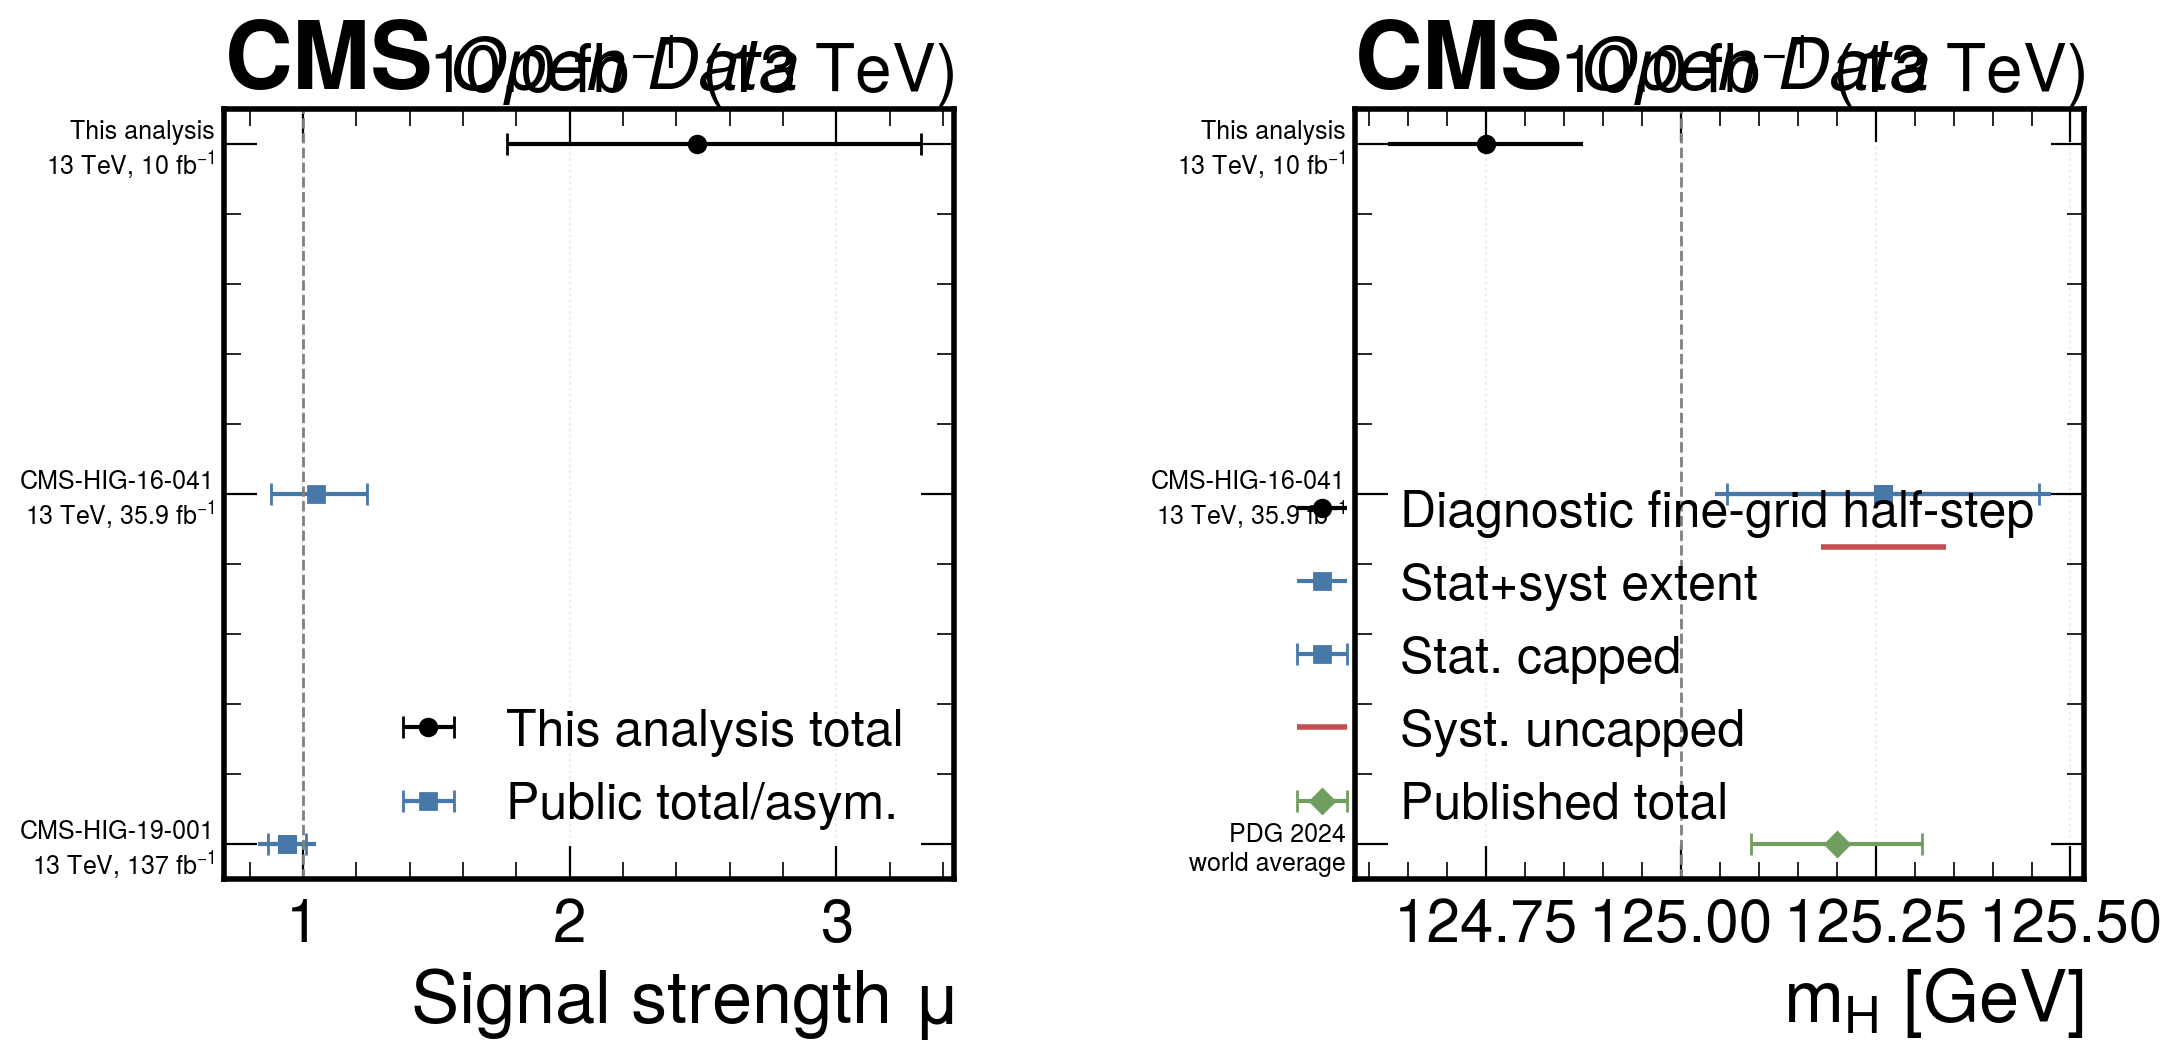
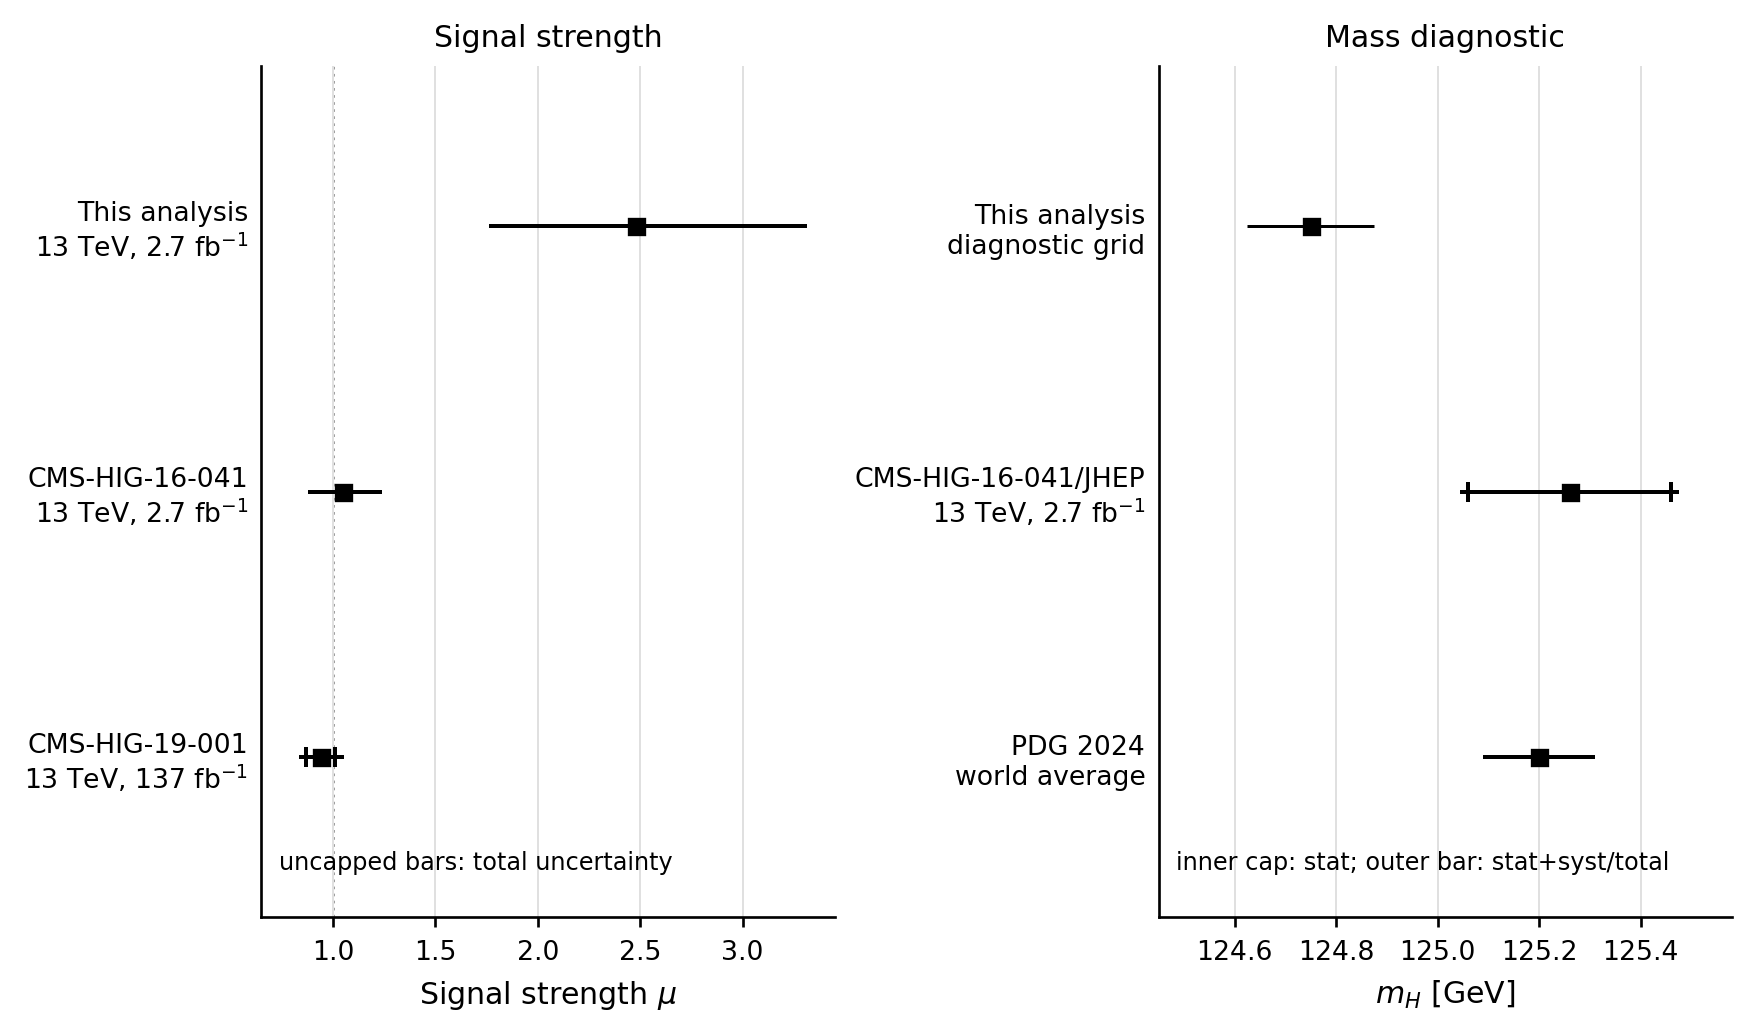
fix(doc4c): polish reference comparison figure

diff --git a/analysis_note/review/doc4c/VERIFY_sven_6dea_2026-05-30.md b/analysis_note/review/doc4c/VERIFY_sven_6dea_2026-05-30.md
@@ -1,0 +1,32 @@
+# VERIFY_sven_6dea_2026-05-30
+
+Session: `sven_6dea`
+
+Scope: fast plot-only Doc 4c fix for `analysis_note/figures/doc4c_reference_comparison.{pdf,png}`. No Phase 4 inference was rerun and no physics numbers were changed.
+
+## Figure Regeneration
+
+- Regenerated `analysis_note/figures/doc4c_reference_comparison.pdf` and `.png` with a one-off `pixi run py - <<'PY'` command.
+- Signal-strength panel uses black square markers for all entries.
+- Entries without stat/syst split use one uncapped total horizontal bar.
+- CMS-HIG-19-001 signal strength uses an inner capped stat bar and an outer uncapped quadrature total bar.
+- Mass panel uses black square markers for all entries.
+- This-analysis mass entry uses `best_mass_GeV = 124.75` and `diagnostic_grid_half_step_GeV = 0.125` from `analysis_note/results/observed_mass_scan.json`.
+- CMS-HIG-16-041/JHEP mass uses an inner capped stat bar and outer uncapped quadrature total bar.
+- PDG 2024 mass uses one uncapped total horizontal bar.
+- No legends are present.
+
+## Checks
+
+- `pixi run tectonic --outdir analysis_note analysis_note/ANALYSIS_NOTE_doc4c_v1.tex` completed and wrote `analysis_note/ANALYSIS_NOTE_doc4c_v1.pdf`.
+- `grep -n "Comparison to Prior Results and Theory\\|doc4c_reference_comparison" analysis_note/ANALYSIS_NOTE_doc4c_v1.tex` showed:
+  - line 681: `\section{Comparison to Prior Results and Theory}`
+  - line 714: `\includegraphics[width=0.92\linewidth,height=0.70\textheight,keepaspectratio]{figures/doc4c_reference_comparison.pdf}`
+- `ls -l analysis_note/figures/doc4c_reference_comparison.pdf analysis_note/figures/doc4c_reference_comparison.png` after regeneration showed:
+  - `analysis_note/figures/doc4c_reference_comparison.pdf`, 19184 bytes, May 30 07:55
+  - `analysis_note/figures/doc4c_reference_comparison.png`, 72132 bytes, May 30 07:55
+- `pixi run lint-plots` passed: `No plotting violations found in 34 file(s).`
+
+## Worktree Scope
+
+Expected changed files are the regenerated comparison figure files, the compiled Doc 4c PDF from the requested compile step, this verification note, and `experiment_log.md`.

diff --git a/experiment_log.md b/experiment_log.md
@@ -1309,3 +1309,9 @@
 - Doc 4c now uses the repaired Phase 3 MVA artifacts: `bdt_mass_safe` AUC `0.7929042332570392`, relative precision-proxy improvement `0.1902098976350023`, and `promote_s2=false`; stale old MVA figure names were removed.
 - Regenerated `doc4c_reference_comparison` in the main Comparison section. CMS-HIG-16-041/JHEP mass is shown as `125.26 +/- 0.20(stat) +/- 0.08(syst)` GeV with component styling; this analysis is shown with diagnostic fine-grid resolution only, not fabricated stat/syst.
 - `pixi run p4c-all`, `pixi run tectonic --outdir analysis_note analysis_note/ANALYSIS_NOTE_doc4c_v1.tex`, and `pixi run lint-plots` completed. Verification evidence is in `analysis_note/review/doc4c/VERIFY_viktor_9f5e_2026-05-30.md`.
+
+## 2026-05-30 — Doc 4c reference comparison plot polish
+
+- Fixer `sven_6dea` regenerated only `analysis_note/figures/doc4c_reference_comparison.{pdf,png}` with no legends, restrained typography, all-black square markers, uncapped total bars for unsplit uncertainties, and capped inner stat bars only where a stat/syst split exists.
+- The figure remains in the main `Comparison to Prior Results and Theory` section of `analysis_note/ANALYSIS_NOTE_doc4c_v1.tex`.
+- `pixi run tectonic --outdir analysis_note analysis_note/ANALYSIS_NOTE_doc4c_v1.tex` and `pixi run lint-plots` completed. Verification evidence is in `analysis_note/review/doc4c/VERIFY_sven_6dea_2026-05-30.md`.